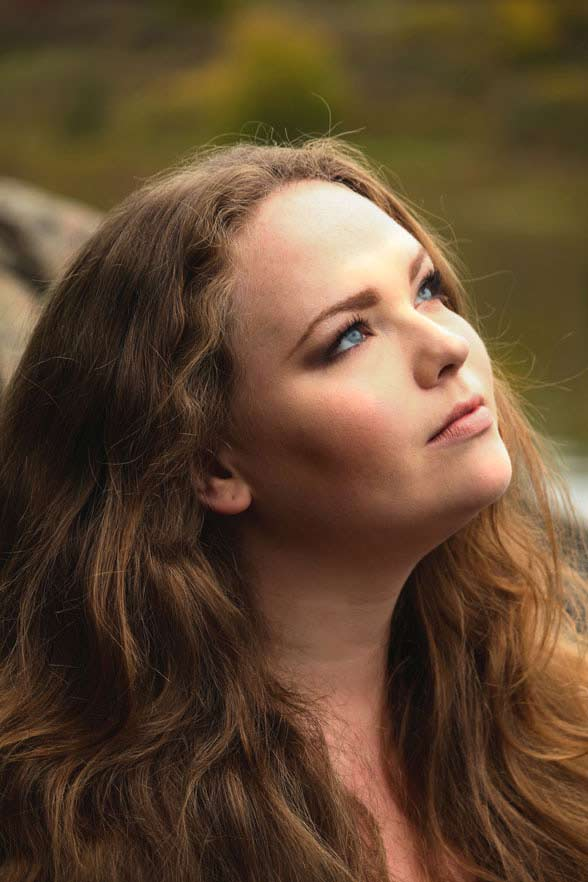
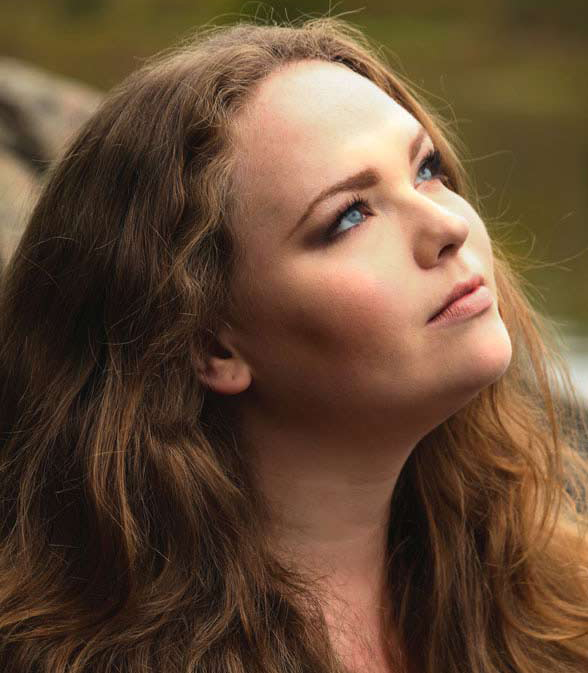
navigation issues
fixed nav issues, resized portrait image, replaced logo

diff --git a/_layouts/default.html b/_layouts/default.html
@@ -10,7 +10,7 @@
   
   <nav class="grid">
     <ol class="nav">
-      <a href="index.html" class="{% if page.url == '/index.html' %}current{% endif %}"><h1 class="jaz unit">jaz down</h1></a>
+      <a href="index.html" class="{% if page.url == '/index.html' %}current{% endif %}"><img src="images/wordmark.svg" class="jaz unit"></a>
       <li class="unit unit-xs-1-2 unit-m-1-4 unit-l-1-6"><a href="portfolio.html" class="nav-item {% if page.url == '/portfolio.html' %}current{% endif %}">portfolio</a></li>
       <li class="unit unit-xs-1-2 unit-m-1-4 unit-l-1-6"><a href="whoami.html" class="nav-item {% if page.url == '/whoami.html' %}current{% endif %}">who am i?</a></li>
     </ol>
@@ -19,18 +19,17 @@
   {{content}}
   
   <footer>
-    <ul class="footer-nav">
-      <a href="portfolio.html" class="footer-nav-item"><li>portfolio</li></a>
-      <a href="whoami.html" class="footer-nav-item"><li>who am i?</li></a>
-    </ul>
-    <div>
-      <div class="soc-med-icons grid">
-        <a href="https://www.facebook.com/jasmine.down.37" class="facebook unit unit-xs-1-4"></a>
-        <a href="https://www.behance.net/jazdown" class="behance unit unit-xs-1-4"></a>
-        <a href="https://vimeo.com/user36330205" class="vimeo unit unit-xs-1-4"></a>
+    <div class="grid">
+        <ul class="footer-nav">
+          <a href="portfolio.html" class="footer-nav-item"><li>portfolio</li></a>
+          <a href="whoami.html" class="footer-nav-item"><li>who am i?</li></a>
+        </ul>
+        <div class="soc-med-icons grid f-b-v">
+          <a href="https://www.facebook.com/jasmine.down.37" class="facebook unit unit-xs-1-4"></a>
+          <a href="https://www.behance.net/jazdown" class="behance unit unit-xs-1-4"></a>
+          <a href="https://vimeo.com/user36330205" class="vimeo unit unit-xs-1-4"></a>
+        </div>
       </div>
-  </div>
   </footer>
-  
-  
-  
+</body>
+</html>

diff --git a/_includes/css/main.css b/_includes/css/main.css
@@ -85,7 +85,7 @@ body {
 .nav-item {
   text-decoration: none;
   margin-bottom: 1.5em;
-  margin-top: 8em;
+  margin-top: 12em;
   border: 2px solid #0B8599;
   font-size: 0.75rem;
   text-transform: uppercase;
@@ -106,14 +106,13 @@ body {
 }
 
 .jaz {
-  width: 8em;
-  padding-top: 0.75em;
-  left: calc( 50% - 4em );
+  width: 10em;
+  padding-top: 1.25em;
+  left: calc( 50% - 5em );
   margin: auto;
   position: absolute;
-  padding-top: 0;
+  padding-top: 0.25em;
   color: #0B8599;
-  font-weight: bolder;
   margin-top: 0.75em;
 }
 
@@ -180,7 +179,7 @@ body {
   left: 2em;
   margin: 1em;
   padding: 5%;
-  padding-top: 0;
+  padding-top: 3em;
   text-align: center;
   color: #808080;
 }
@@ -322,8 +321,13 @@ footer {
 @media only screen and (min-width: 38em){
   
   .jaz {
-    left: -2em;
-    margin-left: 0;
+    left: 1.5em;
+    width: 7em;
+  }
+  
+  .nav-item {
+    margin-bottom: 2em;
+    margin-top: 14em;
   }
   
   .soc-med-icons {
@@ -351,6 +355,11 @@ footer {
     margin-top: 3em;
   }
   
+  .f-b-v {
+    position: relative;
+    bottom: 5em;
+  }
+  
 }
 
 @media only screen and (min-width: 60em){
@@ -368,5 +377,10 @@ footer {
   
   .footer-nav {
    bottom: 4em;
+  }
+  
+  .portfolio-intro {
+    margin-left: 15%;
+    margin-right: 15%;
   }
 }

diff --git a/portfolio.html b/portfolio.html
@@ -5,7 +5,7 @@ layout: default
   <meta name="description" content="Portfolio collection for Jaz Down.">
 
   <h2 class="port-title">portfolio</h2>
-  <p class="portfolio-intro">My portfolio is a collection of projects that I am proud to have to demonstrate my skills as a designer. Visit my full portfolio on <a href="https://www.behance.net/jazdown" class="queen-b-link"><span>Behance</span></a></p>
+  <p class="portfolio-intro">My portfolio is a collection of projects that I am proud to have to demonstrate my skills as a designer. Visit my full portfolio on <a href="https://www.behance.net/jazdown" class="queen-b-link"><span>Behance</span></a> and check out my motion projects on <a href="https://www.behance.net/jazdown" class="queen-b-link"><span>Vimeo.</span></a></p>
   
   <div class="grid port-squares">
     
